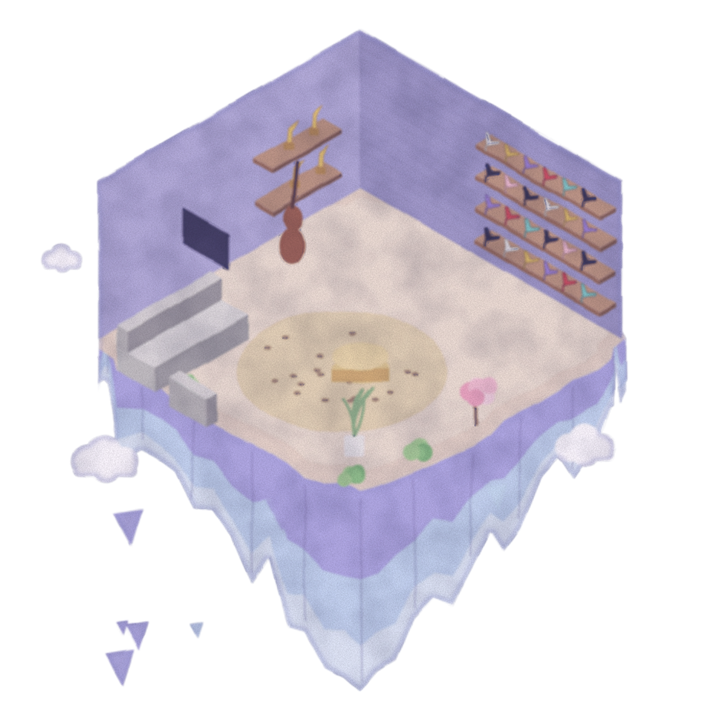
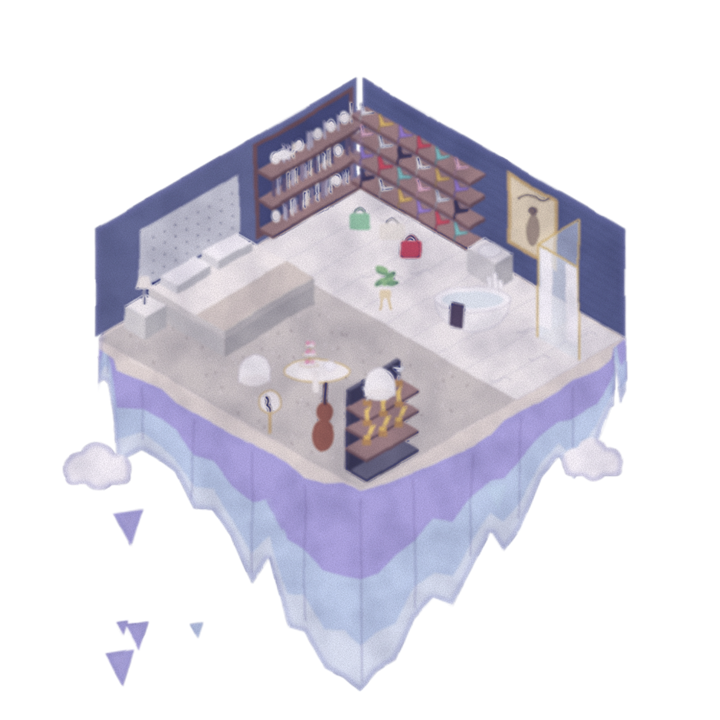
Master Bedroom Design island repainted as a cutaway of the whole suite: library, tufted bed, closet of heels and bags, marble bathroom with tub, shower and scroll, tea corner, trophies, cello, globe

Changed region(s): [[0.0611, 0.0306, 0.8861, 0.6722], [0.7639, 0.5806, 0.8861, 0.6722], [0.0917, 0.5806, 0.2139, 0.7028]]

diff --git a/index.html b/index.html
@@ -195,7 +195,7 @@
         <button class="city-island" id="bedroomIsland" type="button" aria-label="Master Bedroom Design" data-video="images/3Dmodels/masterbedroom.mp4" data-poster="images/3Dmodels/masterbedroom.jpg"
                 style="--top:65%; --left:2%; --w:280px">
           <span class="city-island-inner">
-            <span class="island-float"><span class="island-shadow" aria-hidden="true"></span><img class="city-island-img" src="images/gamedesign/bedroomisland-painted.png" alt="" /></span>
+            <span class="island-float"><span class="island-shadow" aria-hidden="true"></span><img class="city-island-img" src="images/gamedesign/bedroomisland-painted.png?v=2" alt="" /></span>
             <span class="city-island-tag">Master Bedroom Design</span>
           </span>
         </button>
